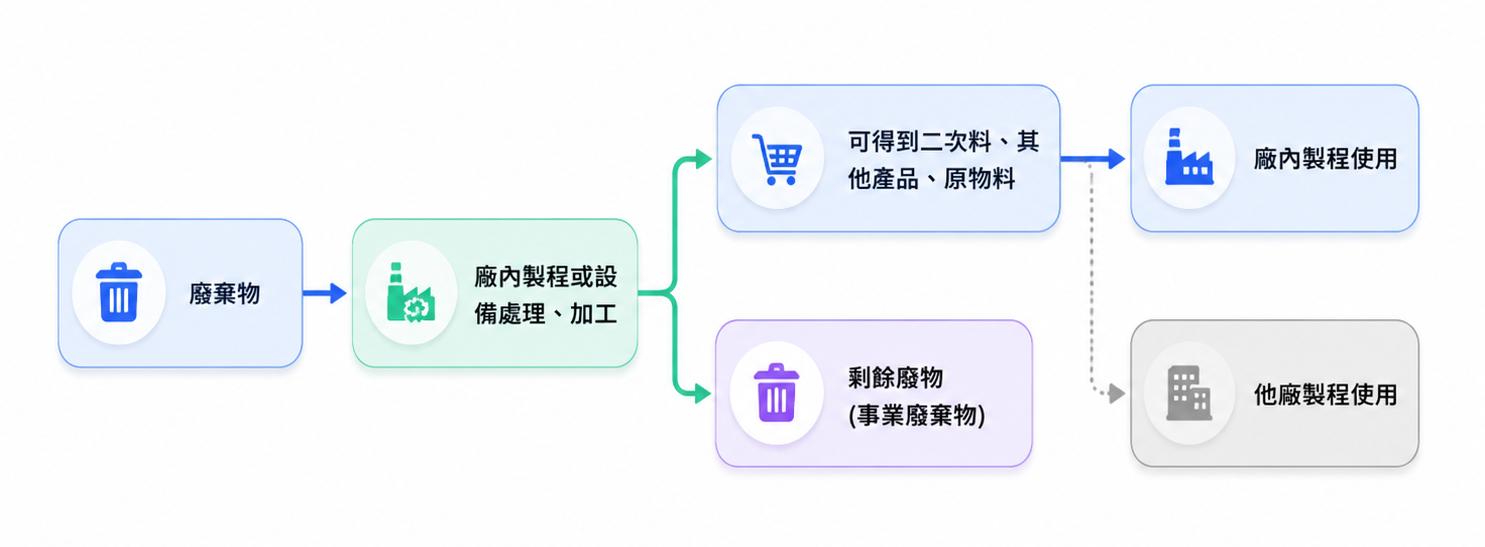
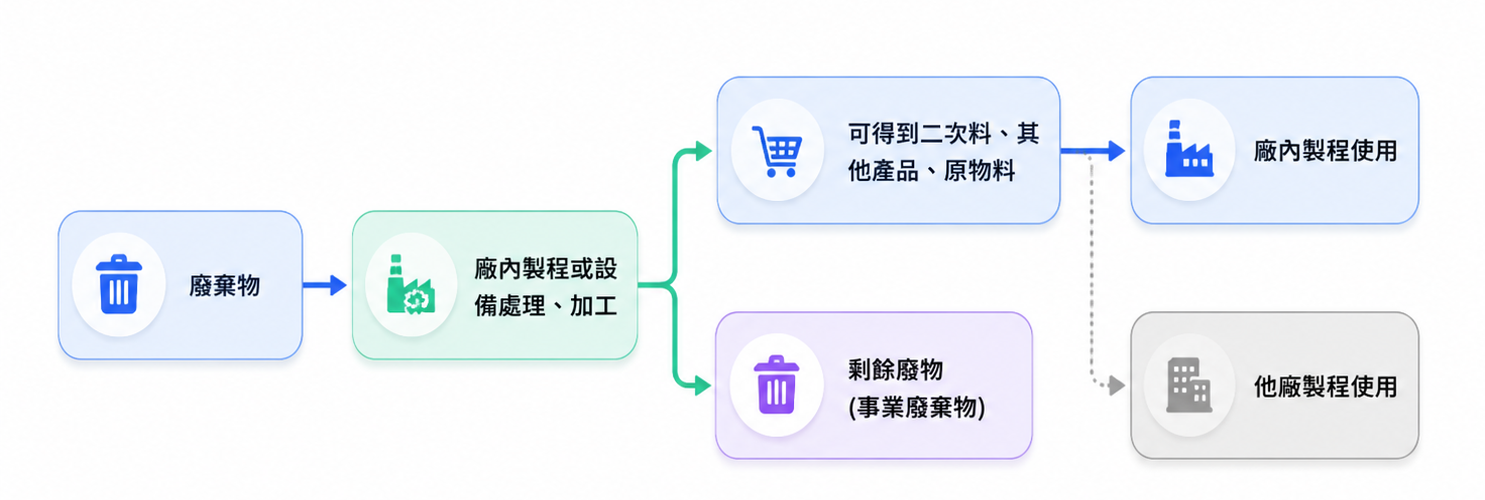
feat:十大循環模式文字圖片

diff --git a/src/views/HomePage.vue b/src/views/HomePage.vue
@@ -282,29 +282,29 @@ const hotTags = ref(['pH值', '廢液', '廢鹼', '污泥', '事業廢棄物'])
 
 const footerHighlights = [
   {
-    title: '智慧媒合',
-    subtitle: '精準匹配供需',
+    title: '智慧分析',
+    subtitle: '智慧精準評估',
     desc: '提升媒合效率',
     color: '#22c55e',
     icon: '<svg xmlns="http://www.w3.org/2000/svg" viewBox="0 0 24 24" fill="none" stroke="currentColor" stroke-width="1.9" stroke-linecap="round" stroke-linejoin="round"><path d="M3 11c0 4.4 3.6 8 8 8"/><path d="M13 3c4.4 0 8 3.6 8 8"/><path d="M8 11l8-8"/><path d="M10 3H3v7"/><path d="M14 21h7v-7"/></svg>'
   },
   {
-    title: '數據透明',
-    subtitle: '即時數據分析',
+    title: '資源再生',
+    subtitle: '循環高效利用',
     desc: '掌握資源流向',
     color: '#3b82f6',
     icon: '<svg xmlns="http://www.w3.org/2000/svg" viewBox="0 0 24 24" fill="none" stroke="currentColor" stroke-width="1.9" stroke-linecap="round" stroke-linejoin="round"><path d="M3 3v18h18"/><rect x="7" y="11" width="3" height="6" rx="1"/><rect x="12" y="8" width="3" height="9" rx="1"/><rect x="17" y="5" width="3" height="12" rx="1"/></svg>'
   },
   {
-    title: '安全可靠',
-    subtitle: '嚴格審查機制',
+    title: '綠色永續',
+    subtitle: '環境友善共榮',
     desc: '確保資訊可信',
     color: '#f59e0b',
     icon: '<svg xmlns="http://www.w3.org/2000/svg" viewBox="0 0 24 24" fill="none" stroke="currentColor" stroke-width="1.9" stroke-linecap="round" stroke-linejoin="round"><path d="M12 2l8 4v6c0 5.2-3.4 9.5-8 10-4.6-.5-8-4.8-8-10V6z"/><path d="M8.5 12.5l2.2 2.2 4.8-4.8"/></svg>'
   },
   {
-    title: '永續循環',
-    subtitle: '促進資源再生',
+    title: '決策可靠',
+    subtitle: '數據驅動共策',
     desc: '實現淨零未來',
     color: '#22c55e',
     icon: '<svg xmlns="http://www.w3.org/2000/svg" viewBox="0 0 24 24" fill="none" stroke="currentColor" stroke-width="1.9" stroke-linecap="round" stroke-linejoin="round"><circle cx="12" cy="12" r="9"/><path d="M3 12h18"/><path d="M12 3a15 15 0 0 1 0 18"/><path d="M12 3a15 15 0 0 0 0 18"/></svg>'
@@ -1096,7 +1096,7 @@ onBeforeUnmount(() => {
 .insight-stat-label {
   margin: 0;
   color: rgba(255, 255, 255, 0.88);
-  font-size: 13px;
+  font-size: 15px;
   font-weight: 600;
   font-family: "Noto Serif TC", "Microsoft JhengHei", "PingFang TC", "Times New Roman", serif;
 }
@@ -1171,12 +1171,13 @@ onBeforeUnmount(() => {
       }
 
       .section-description {
-        font-size: 16px;
+        font-size: 18px;
         color: #4a5568;
         text-align: center;
         max-width: 720px;
         margin: 0 auto;
         line-height: 1.85;
+        font-weight: 600;
       }
     }
 
@@ -1273,7 +1274,7 @@ onBeforeUnmount(() => {
     }
 
     .category-card-name {
-      font-size: 15px;
+      font-size: 16px;
       font-weight: 600;
       line-height: 1.4;
       transition: color 0.3s;
@@ -1399,7 +1400,7 @@ onBeforeUnmount(() => {
     }
 
     .hot-tags-label {
-      font-size: 14px;
+      font-size: 15px;
       color: #4a5568;
       font-weight: 700;
       white-space: nowrap;
@@ -1412,7 +1413,7 @@ onBeforeUnmount(() => {
     }
 
     .hot-tag-item {
-      font-size: 13px;
+      font-size: 15px;
       font-weight: 600;
       color: #2c5aa0;
       background: #dbeafe;
@@ -1649,7 +1650,7 @@ onBeforeUnmount(() => {
 }
 
 .list-title-badge {
-  font-size: 12px;
+  font-size: 15px;
   font-weight: 700;
   color: #fff;
   padding: 4px 12px;
@@ -1756,7 +1757,7 @@ onBeforeUnmount(() => {
 
 .species-items {
   margin: 0;
-  font-size: 13px;
+  font-size: 16px;
   color: #667f8d;
   line-height: 1.65;
   display: -webkit-box;
@@ -1839,14 +1840,14 @@ onBeforeUnmount(() => {
   min-width: 80px;
   padding: 6px 12px;
   border-radius: 8px;
-  font-size: 12px;
+  font-size: 15px;
   font-weight: 700;
   letter-spacing: 0.02em;
 }
 
 .code-card-title {
   margin: 0 0 10px;
-  font-size: 15px;
+  font-size: 18px;
   color: #2e4754;
   line-height: 1.5;
   font-weight: 600;
@@ -1854,7 +1855,7 @@ onBeforeUnmount(() => {
 
 .code-card-description {
   margin: 0;
-  font-size: 13px;
+  font-size: 16px;
   color: #667f8d;
   line-height: 1.65;
   display: -webkit-box;

diff --git a/src/components/CirculationModal.vue b/src/components/CirculationModal.vue
@@ -1,9 +1,29 @@
 <template>
-  <el-dialog v-model="visible" :title="mode?.name" width="85%" top="5vh" destroy-on-close :close-on-click-modal="true" class="circulation-modal">
+  <el-dialog v-model="visible" :title="mode?.name" width="75%" top="5vh" destroy-on-close :close-on-click-modal="true" class="circulation-modal">
     <div v-if="mode" class="mode-detail-content">
       <el-row :gutter="40">
+        <!-- 上方：流程圖 -->
+        <el-col :xs="24" :md="24" class="right-section">
+          <div class="section-block">
+            <h3 class="section-title">
+              <el-icon color="#4CAF50">
+                <TrendCharts />
+              </el-icon>
+              循環流程圖
+            </h3>
+            <div class="flowchart-container">
+              <!-- 流程圖占位符 -->
+              <div class="flowchart-placeholder">
+                <!-- 簡易流程示意 -->
+                <div class="simple-flow">
+                  <img :src="mode.flowchartUrl" :alt="mode.flowchartAlt" style="width: 80%; height: auto; " />
+                </div>
+              </div>
+            </div>
+          </div>
+        </el-col>
         <!-- 左側：文字說明 -->
-        <el-col :xs="24" :md="10" class="left-section">
+        <el-col :xs="24" :md="24" class="left-section">
           <div class="section-block">
             <h3 class="section-title">
               <el-icon color="#4CAF50">
@@ -29,35 +49,13 @@
           </div>
         </el-col>
 
-        <!-- 右側：流程圖 -->
-        <el-col :xs="24" :md="14" class="right-section">
-          <div class="section-block">
-            <h3 class="section-title">
-              <el-icon color="#4CAF50">
-                <TrendCharts />
-              </el-icon>
-              循環流程圖
-            </h3>
-            <div class="flowchart-container">
-              <!-- 流程圖占位符 -->
-              <div class="flowchart-placeholder">
-                <!-- 簡易流程示意 -->
-                <div class="simple-flow">
-                  <img :src="mode.flowchartUrl" :alt="mode.flowchartAlt" style="width: 100%; height: auto; " />
-                </div>
-              </div>
-            </div>
-          </div>
-        </el-col>
+
       </el-row>
     </div>
 
     <template #footer>
       <span class="dialog-footer">
         <el-button @click="visible = false">關閉</el-button>
-        <el-button type="primary" @click="handleSearch">
-          搜尋相關廢棄物
-        </el-button>
       </span>
     </template>
   </el-dialog>
@@ -109,7 +107,7 @@ const handleSearch = () => {
 <style scoped lang="scss">
 .circulation-modal {
   :deep(.el-dialog__header) {
-    padding: 24px 32px;
+    padding: 32px 32px;
     border-bottom: 1px solid #E0E0E0;
     background: linear-gradient(135deg, #E8F5E9 80%, #FFFFFF 100%);
   }
@@ -145,7 +143,7 @@ const handleSearch = () => {
 
 .section-block {
   margin-bottom: 32px;
-  
+
 
   &:last-child {
     margin-bottom: 0;
@@ -165,7 +163,7 @@ const handleSearch = () => {
 }
 
 .mode-description {
-  font-size: 16px;
+  font-size: 17px;
   line-height: 1.8;
   color: #2C3E50;
   text-align: justify;
@@ -205,7 +203,6 @@ const handleSearch = () => {
   align-items: center;
   justify-content: center;
   gap: 16px;
-  // padding: 40px 20px;
   text-align: center;
 }
 
@@ -238,7 +235,7 @@ const handleSearch = () => {
   // gap: 20px;
   // margin-top: 24px;
   // padding: 24px;
-  width: 90%;
+  width: 100%;
   background: #FFFFFF;
   border-radius: 8px;
   border: 2px dashed #E0E0E0;

diff --git a/src/components/CirculationModesGrid.vue b/src/components/CirculationModesGrid.vue
@@ -423,7 +423,7 @@ onBeforeUnmount(() => {
 	top: 10%;
 	width: 200px;
 	min-height: 250px;
-	background: #fffff990;
+	background: #fffff9cb;
 	border-radius: 16px;
 	padding: 20px;
 	box-shadow: 0 8px 24px rgba(0, 0, 0, 0.2);
@@ -443,6 +443,7 @@ onBeforeUnmount(() => {
 		color: #333;
 		line-height: 1.6;
 		flex: 1;
+		font-size: 14px;
 	}
 
 	.explore-btn {
